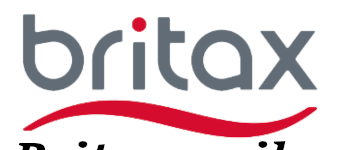
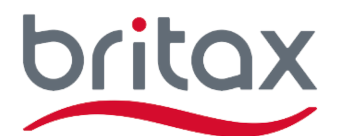
Remove dash in lead text, clean tap-to-play video posters, fix Britax crop

diff --git a/index.html b/index.html
@@ -78,6 +78,11 @@ section.block{padding-block:72px}
 .card::before{content:"";position:absolute;top:-11px;left:50%;width:70px;height:22px;margin-left:-35px;background:var(--tape);opacity:.9;transform:rotate(-3deg);z-index:2}
 .frame{position:relative;aspect-ratio:9/16;border-radius:14px;overflow:hidden;background:linear-gradient(160deg,#f0b6c9,#ffc9b8)}
 .frame video{width:100%;height:100%;object-fit:cover}
+.play{position:absolute;inset:0;margin:auto;width:66px;height:66px;border-radius:50%;border:0;padding:0;background:rgba(194,24,91,.92);color:#fff;cursor:pointer;display:grid;place-items:center;box-shadow:0 8px 22px rgba(80,20,50,.35);transition:transform .15s}
+.play svg{width:26px;height:26px;margin-inline-start:4px;fill:currentColor}
+.frame:hover .play{transform:scale(1.08)}
+.play:focus-visible{outline:3px solid #fff;outline-offset:3px}
+.frame.on .play{display:none}
 .chip{display:block;text-align:center;margin-top:10px;font-weight:700;color:var(--berry);font-size:.95rem}
 
 /* reviews */
@@ -137,7 +142,7 @@ footer{text-align:center;padding:0 16px 40px;color:var(--ink);opacity:.7;font-si
     <div>
       <span class="eyebrow">UGC • Social media • Content creation</span>
       <h1 dir="ltr"><em>Gal</em> Kershtein Barhon</h1>
-      <p class="lead"><span class="hi">היי, אני גל.</span><span class="who">אמא לשתי בנות, יוצרת תוכן ו-UGC.</span><span class="what">מייצרת למותגים סרטונים בגובה העיניים – כאלה שמרגישים כמו המלצה אמיתית, ומציגים את המוצר בצורה הכי מושכת ואותנטית שיש.</span></p>
+      <p class="lead"><span class="hi">היי, אני גל.</span><span class="who">אמא לשתי בנות, יוצרת תוכן ו-UGC.</span><span class="what">מייצרת למותגים סרטונים בגובה העיניים כאלה&nbsp;שמרגישים כמו המלצה אמיתית, ומציגים את המוצר בצורה הכי מושכת ואותנטית שיש.</span></p>
       <div class="value">סרטוני UGC אותנטיים שמעלים מעורבות, מגדילים אחוזי המרה ועובדים מצוין גם כמודעות ממומנות ברשתות החברתיות.</div>
       <div class="row">
         <a class="btn main" href="https://wa.me/972545595610?text=%D7%94%D7%99%D7%99%20%D7%94%D7%92%D7%A2%D7%AA%20%D7%93%D7%A8%D7%9A%20%D7%AA%D7%99%D7%A7%20%D7%94%D7%A2%D7%91%D7%95%D7%93%D7%95%D7%AA%20%D7%A9%D7%9C%D7%9A%2C%20%D7%90%D7%A9%D7%9E%D7%97%20%D7%9C%D7%A7%D7%91%D7%9C%20%D7%A4%D7%A8%D7%98%D7%99%D7%9D%20%D7%A0%D7%95%D7%A1%D7%A4%D7%99%D7%9D." target="_blank" rel="noopener">בואו נכיר</a>
@@ -220,8 +225,17 @@ var REVIEWS=[
   {t:"מעלף!",s:"העץ של יאשה",img:"reviews/5.jpg"}
 ];
 document.getElementById("vids").innerHTML=VIDEOS.map(function(v){
-  return '<div class="card"><div class="frame"><video src="'+v.f+'" poster="'+v.f.replace(".mp4",".jpg")+'" preload="none" playsinline controls></video></div><span class="chip">'+v.l+'</span></div>';
+  return '<div class="card"><div class="frame"><video src="'+v.f+'" poster="'+v.f.replace(".mp4",".jpg")+'" preload="none" playsinline></video><button class="play" type="button" aria-label="'+v.l+'"><svg viewBox="0 0 24 24" aria-hidden="true"><path d="M8 5v14l11-7z"/></svg></button></div><span class="chip">'+v.l+'</span></div>';
 }).join("");
+/* Clean poster until tapped; then play right away with native controls. Only one video plays at a time. */
+var vids=document.getElementById("vids");
+vids.addEventListener("click",function(e){
+  var f=e.target.closest(".frame");if(!f||f.classList.contains("on"))return;
+  var v=f.querySelector("video");f.classList.add("on");v.controls=true;v.play();
+});
+vids.addEventListener("play",function(e){
+  vids.querySelectorAll("video").forEach(function(o){if(o!==e.target)o.pause()});
+},true);
 var track=document.getElementById("track"),dots=document.getElementById("dots");
 track.innerHTML=REVIEWS.map(function(r){
   var body=r.img?'<img class="shot" src="'+r.img+'" alt="'+r.t.replace(/"/g,"&quot;")+'" loading="lazy">':'<b>'+r.t+'</b>';
